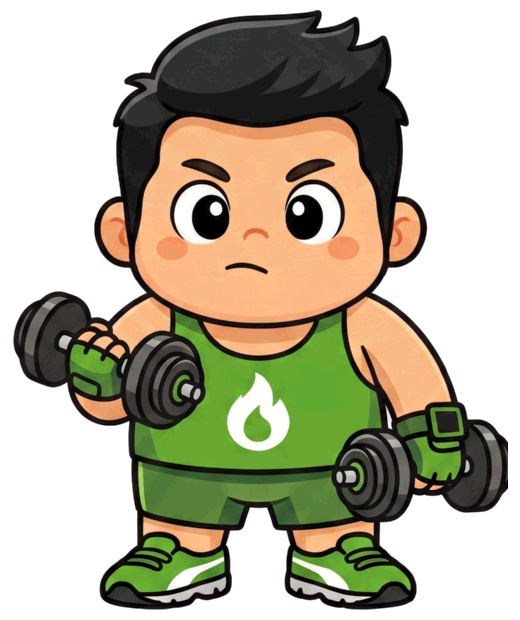
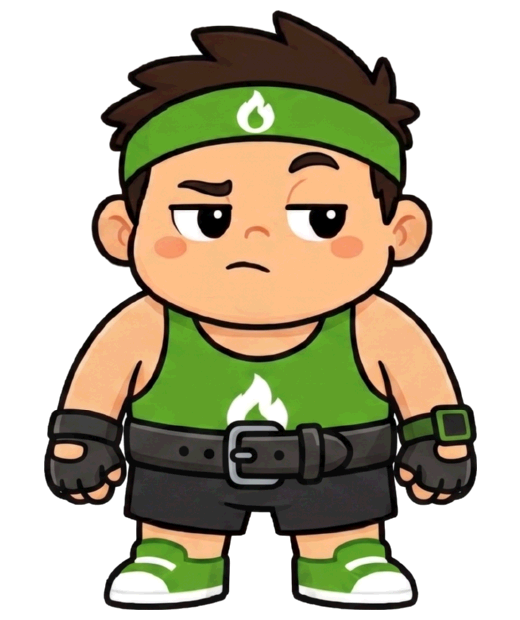
Fantasia propria para as 10 categorias da tabela MET
Processa as 7 artes novas (musculacao refeita, caminhada, funcional, lutas,
esportes, cardio, bem-estar) pelo pipeline: 4,8MB cada -> ~125KB, fundo
transparente, sem marca d'agua, normalizadas em 520x620 com os pes alinhados.
Nenhuma categoria cai mais no visual generico.

Corrige bug de acessibilidade: FANTASIA_GENERICA era 'gpt' mas a descricao
estava sob a chave 'generica', entao o alt de qualquer categoria sem fantasia
saia 'undefined' para leitor de tela.

Testes novos que travariam essas duas classes de erro: toda categoria tem
fantasia, todo visual tem descricao nao-vazia, e toda imagem referenciada
existe no disco.

diff --git a/mascote.js b/mascote.js
@@ -20,17 +20,25 @@ export const TETOS_DURACAO = {
   'Bem-estar': 240,
 };
 
-// Fantasias com arte pronta (ilustração gerada + recortada em img/). Categorias
-// fora deste mapa usam o visual genérico até a arte ficar pronta — adicionar
-// uma fantasia nova é só acrescentar uma linha aqui + os 2 arquivos de imagem
+// Fantasias com arte pronta (ilustração gerada + recortada em img/). As 10
+// categorias da tabela MET estão cobertas. Para uma categoria nova: acrescente
+// uma linha aqui, uma descrição em DESCRICOES_VISUAL, e os 2 arquivos de imagem
 // (normal/desconfiado) em img/.
 export const FANTASIAS = {
+  Caminhada: 'caminhada',
   Corrida: 'corrida',
+  Bike: 'bike',
   'Natação': 'natacao',
   'Musculação': 'musculacao',
-  Bike: 'bike',
+  'Funcional/HIIT': 'funcional',
+  Lutas: 'lutas',
+  Esportes: 'esportes',
+  Cardio: 'cardio',
+  'Bem-estar': 'bemestar',
 };
 
+// Rede de segurança: categoria sem fantasia mapeada cai aqui em vez de pedir
+// uma imagem que não existe. Também é o visual do estado inicial.
 export const FANTASIA_GENERICA = 'gpt';
 
 // Cada visual vira 2 arquivos de imagem: img/caloricio-<visual>-normal.png e
@@ -42,12 +50,20 @@ export function caminhoImagem(visual, desconfiado) {
 }
 
 // Descrições por visual, usadas como texto alternativo pra leitor de tela.
+// As chaves têm que bater com os valores de FANTASIAS (mais 'gpt' e 'neutro'),
+// senão o alt vira "undefined" pra quem usa leitor de tela.
 export const DESCRICOES_VISUAL = {
+  caminhada: 'Caloricio de boné e jaqueta corta-vento, pronto pra caminhar',
   corrida: 'Caloricio de roupa de corrida, óculos esportivos e tênis',
+  bike: 'Caloricio de capacete e roupa de ciclismo',
   natacao: 'Caloricio de óculos de natação, touca e sunga',
-  musculacao: 'Caloricio de regata segurando um halter',
-  bike: 'Caloricio de capacete de ciclista',
-  generica: 'Caloricio com faixa na cabeça, pronto pro treino',
+  musculacao: 'Caloricio de regata, cinto de levantamento e luvas, com um haltere',
+  funcional: 'Caloricio de camiseta de treino com uma corda de pular',
+  lutas: 'Caloricio de kimono com faixa preta e luvas de boxe',
+  esportes: 'Caloricio de uniforme de futebol com uma bola ao lado do pé',
+  cardio: 'Caloricio com toalha no pescoço e garrafinha de água',
+  bemestar: 'Caloricio com um tapete de yoga enrolado sob o braço',
+  gpt: 'Caloricio de faixa na cabeça e moletom, pronto pro treino',
   neutro: 'Caloricio te esperando começar',
 };
 

diff --git a/mascote.test.js b/mascote.test.js
@@ -1,10 +1,12 @@
 import test from 'node:test';
 import assert from 'node:assert/strict';
+import fs from 'node:fs';
 import {
   TETOS_DURACAO,
   REGRAS,
   FANTASIAS,
   FANTASIA_GENERICA,
+  DESCRICOES_VISUAL,
   avaliarRegras,
   estadoDoMascote,
   caminhoImagem,
@@ -48,10 +50,34 @@ test('categoria com fantasia desenhada veste o visual certo', () => {
   assert.equal(e.desconfiado, false);
 });
 
-test('categoria sem fantasia desenhada cai no visual genérico', () => {
-  const e = estadoDoMascote('Lutas', 45);
+test('categoria desconhecida cai no visual genérico', () => {
+  const e = estadoDoMascote('Categoria Que Não Existe', 45);
   assert.equal(e.visual, FANTASIA_GENERICA);
   assert.equal(e.desconfiado, false);
+});
+
+test('toda categoria da tabela MET tem fantasia própria', () => {
+  for (const categoria of Object.keys(TETOS_DURACAO)) {
+    assert.ok(FANTASIAS[categoria], `categoria sem fantasia: ${categoria}`);
+  }
+});
+
+test('todo visual tem descrição — senão o alt vira "undefined"', () => {
+  const visuais = [...Object.values(FANTASIAS), FANTASIA_GENERICA, 'neutro'];
+  for (const v of visuais) {
+    assert.equal(typeof DESCRICOES_VISUAL[v], 'string', `visual sem descrição: ${v}`);
+    assert.ok(DESCRICOES_VISUAL[v].length > 0, `descrição vazia: ${v}`);
+  }
+});
+
+test('toda imagem referenciada existe no disco', () => {
+  const visuais = [...Object.values(FANTASIAS), FANTASIA_GENERICA];
+  for (const v of visuais) {
+    for (const desconfiado of [false, true]) {
+      const caminho = caminhoImagem(v, desconfiado);
+      assert.ok(fs.existsSync(caminho), `arquivo faltando: ${caminho}`);
+    }
+  }
 });
 
 test('duração absurda → desconfiado com legenda, mantendo a fantasia da categoria', () => {
@@ -80,5 +106,7 @@ test('estadoDoMascote inclui o caminho da imagem correspondente', () => {
   const e2 = estadoDoMascote('Corrida', 999);
   assert.equal(e2.imagem, 'img/caloricio-corrida-desconfiado.png');
   const e3 = estadoDoMascote('Lutas', 45);
-  assert.equal(e3.imagem, `img/caloricio-${FANTASIA_GENERICA}-normal.png`);
+  assert.equal(e3.imagem, 'img/caloricio-lutas-normal.png');
+  const e4 = estadoDoMascote('Categoria Que Não Existe', 45);
+  assert.equal(e4.imagem, `img/caloricio-${FANTASIA_GENERICA}-normal.png`);
 });
